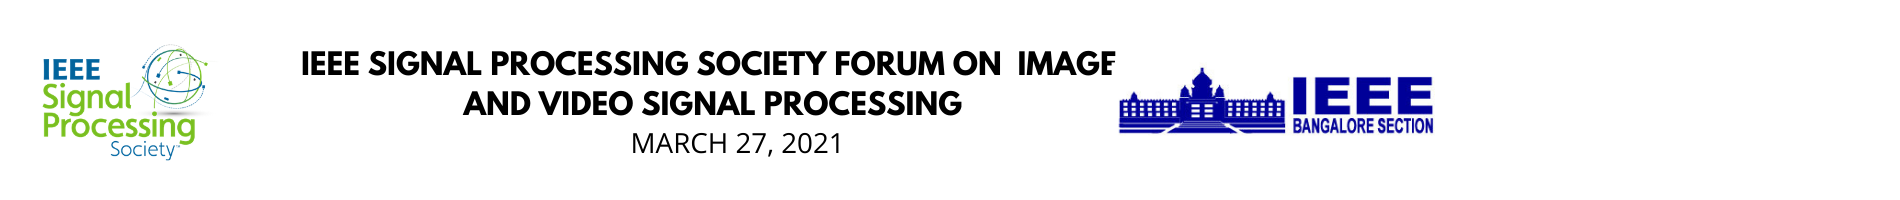
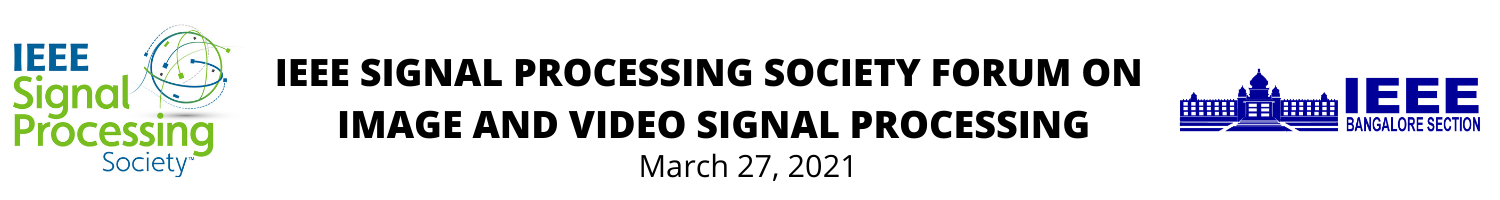
11th commit

Changed region(s): [[0.0, 0.15, 1.0, 0.9]]

diff --git a/index.html b/index.html
@@ -316,7 +316,7 @@
   <div class="container-fluid header">
    
      <div class="col-lg-12">
-                 <img src="img/header.png" alt="HEADER" height="200" class="img-fluid"/>
+                 <img src="img/header.png" alt="HEADER"  class="img-fluid"/>
     </div>
       
       <div class="row">
